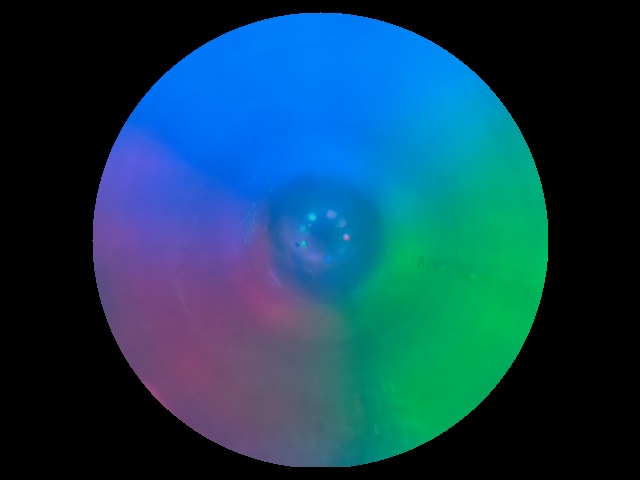
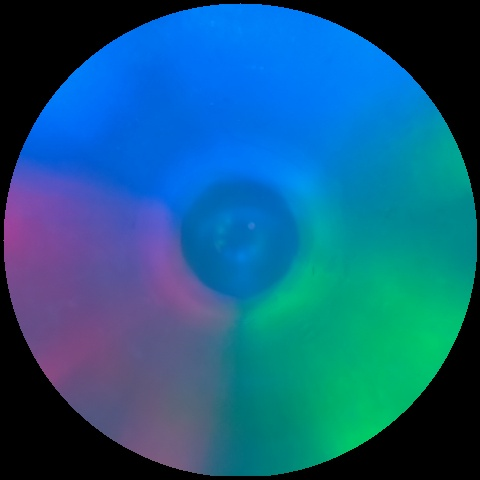
starting to see some results

diff --git a/experiments/01_collect_data_sim.py b/experiments/01_collect_data_sim.py
@@ -52,27 +52,28 @@ def main(cfg):
     gel = 'clear'
     N = 30
 
-    conf = {'method': 'press',
-            'save': save,
-            'up_to': up_to,
-            'start_from': start_from,
-            'N': N,
-            'max_press_time': max_press_time,
-            'max_pressure': max_pressure,
-            'leds': leds,
-            'indenter': indenter,
-            'gel': gel,
-            'save_every_sec': save_every_sec}
+    summary = {'method': 'press',
+               'save': save,
+               'up_to': up_to,
+               'start_from': start_from,
+               'N': N,
+               'max_press_time': max_press_time,
+               'max_pressure': max_pressure,
+               'leds': leds,
+               'indenter': indenter,
+               'gel': gel,
+               'save_every_sec': save_every_sec}
 
     # create simulator object
     simulator = Simulator(cfg=cfg,
-                          with_bg=False)
+                          summary=summary,
+                          with_bg=True)
 
     # create env
     simulator.create_env(cfg, obj_id=indenter)
 
     # collect data
-    simulator.collect_data(conf)
+    simulator.collect_data(summary)
 
 
 if __name__ == "__main__":

diff --git a/tacto_allsight_wrapper/allsight_wrapper.py b/tacto_allsight_wrapper/allsight_wrapper.py
@@ -19,7 +19,7 @@ def euler2matrix(angles=[0, 0, 0], translation=[0, 0, 0], xyz="xyz", degrees=Fal
     return pose
 
 
-def circle_mask(size=(640, 480), border=0):
+def circle_mask(size=(480, 480), border=0):
     """
         used to filter center circular area of a given image,
         corresponding to the AllSight surface area
@@ -149,10 +149,10 @@ class Renderer(Renderer):
                 color = colors[i]
 
                 theta = np.pi / 180 * (thetas[i] - 90)
-                tuning_angle = -np.pi / 16
+                tuning_angle = -np.pi / 10
                 light_pose_0 = euler2matrix(
                     xyz="yzx",
-                    angles=[0, tuning_angle, theta],
+                    angles=[tuning_angle, 0, theta],
                     translation=xyz[i] + origin,
                 )
 

diff --git a/tacto_allsight_wrapper/allsight_simulator.py b/tacto_allsight_wrapper/allsight_simulator.py
@@ -36,6 +36,7 @@ origin, xaxis, yaxis, zaxis = (0, 0, 0), (1, 0, 0), (0, 1, 0), (0, 0, 1)
 class Simulator:
 
     def __init__(self, cfg: DictConfig,
+                 summary: dict,
                  with_bg=False,
                  attributes: dict = None
                  ):
@@ -62,9 +63,10 @@ class Simulator:
             background=bg if with_bg else None
         )
 
+        self.summary = summary
         #                    x  y  z      h      r
         self.start_h = 0.012
-        self.finger_props = [0, 0, self.start_h, 0.016, 0.011]  # [m]
+        self.finger_props = [0, 0, self.start_h, 0.015, 0.01]  # [m]
 
     # visual creator function
     def create_env(self, cfg: DictConfig, obj_id: str = '30'):
